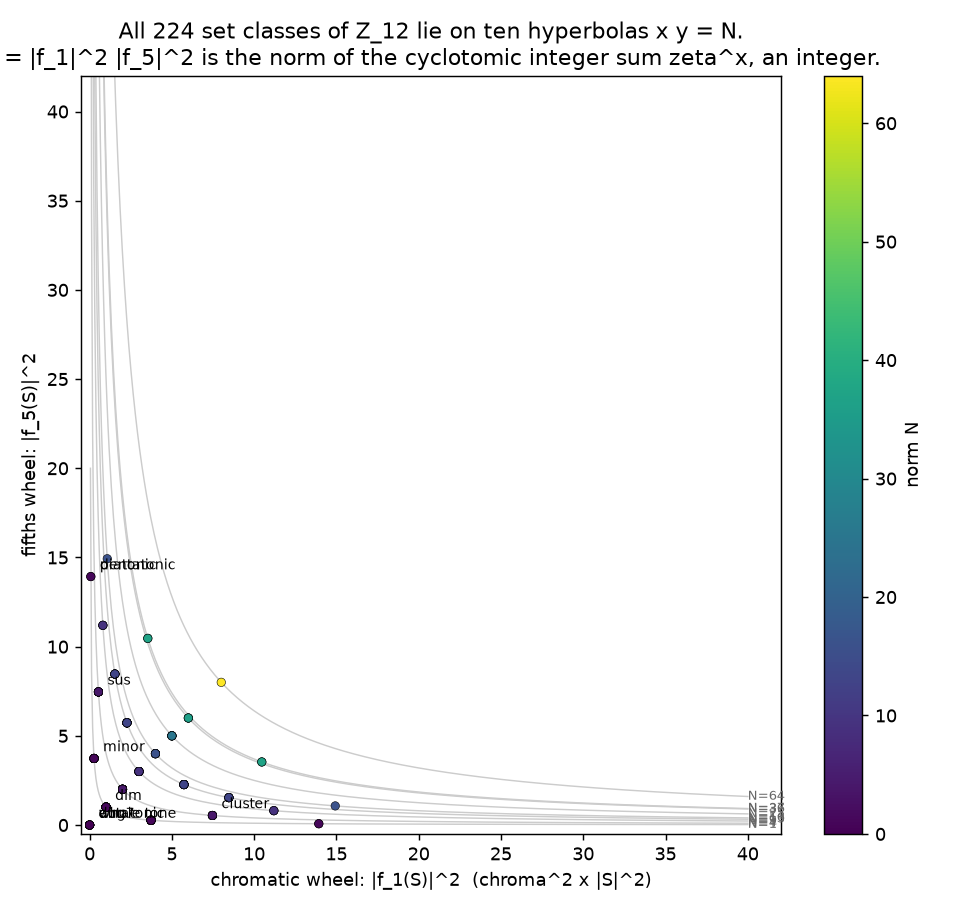
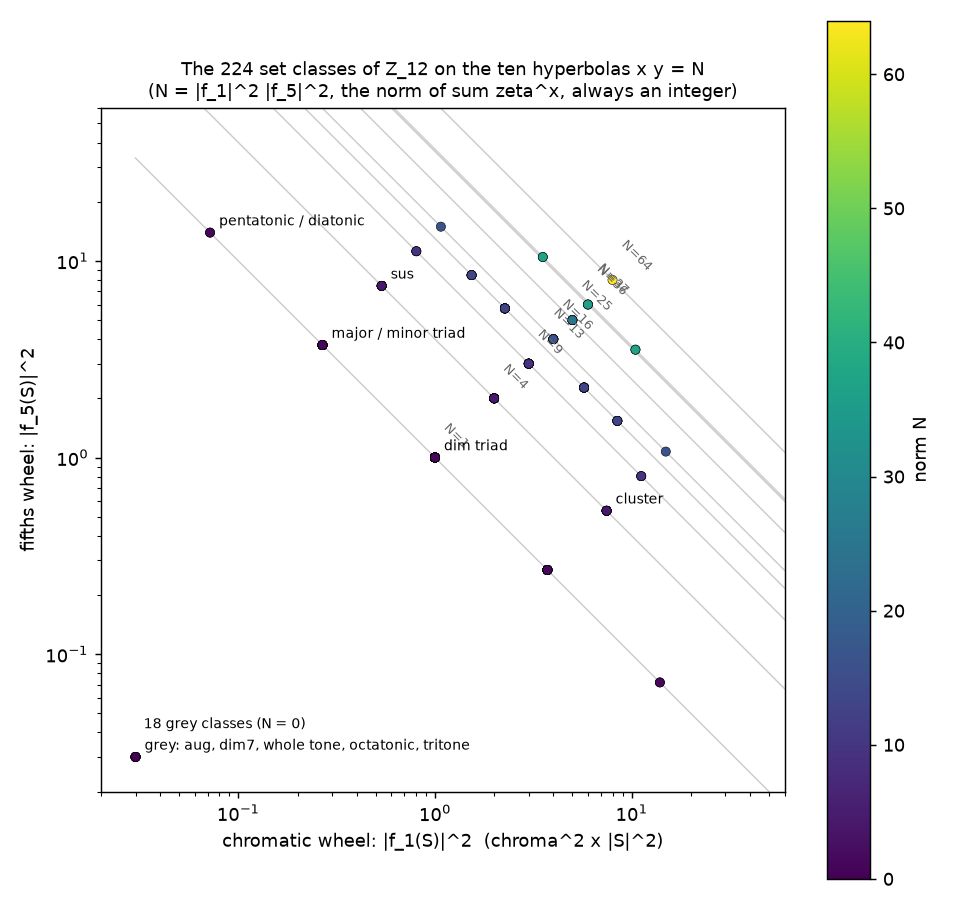
Hunt #75: norm figure on log axes, all 224 classes

diff --git a/hunts/chroma_hue/make_figure_norm.py b/hunts/chroma_hue/make_figure_norm.py
@@ -24,9 +24,9 @@ import pc  # noqa: E402
 
 FIG = HERE.parents[1] / "figures"
 N = 12
-NAMED = {(0, 4, 7): "major", (0, 3, 7): "minor", (0, 4, 8): "aug", (0, 3, 6): "dim", (0, 2, 7): "sus",
-         (0, 1, 3, 5, 6, 8, 10): "diatonic", (0, 2, 4, 7, 9): "pentatonic", (0, 1, 2): "cluster",
-         (0, 2, 4, 6, 8, 10): "whole tone", (0, 3, 6, 9): "dim7", (0, 1, 3, 4, 6, 7, 9, 10): "octatonic"}
+NAMED = {(0, 3, 7): "major / minor triad", (0, 3, 6): "dim triad", (0, 2, 7): "sus",
+         (0, 2, 4, 7, 9): "pentatonic / diatonic", (0, 1, 2): "cluster",
+         (0, 4, 8): "grey: aug, dim7, whole tone, octatonic, tritone"}
 
 
 def prime_form(S):
@@ -40,7 +40,7 @@ def prime_form(S):
 
 def main():
     pts = {}
-    for d in range(1, N):
+    for d in range(0, N + 1):
         for S in itertools.combinations(range(N), d):
             pf = prime_form(S)
             if pf in pts:
@@ -51,21 +51,27 @@ def main():
     ys = np.array([v[1] for v in pts.values()])
     norms = np.round(xs * ys).astype(int)
     fig, ax = plt.subplots(figsize=(7.5, 7))
-    grid = np.linspace(0.05, 40, 600)
+    grid = np.geomspace(0.03, 60, 400)
     for n in sorted(set(norms) - {0}):
         ax.plot(grid, n / grid, color="0.8", lw=0.8, zorder=0)
-        ax.text(40, n / 40, f"N={n}", fontsize=7, color="0.4", va="center")
-    sc = ax.scatter(xs, ys, c=norms, cmap="viridis", s=22, zorder=2, edgecolor="k", linewidth=0.3)
+        ax.text(np.sqrt(n) * 1.08, np.sqrt(n) * 1.08, f"N={n}", fontsize=7, color="0.4", ha="left", va="bottom", rotation=-45)
+    grey = norms == 0
+    floor = 0.03
+    sc = ax.scatter(np.where(xs > 0, xs, floor), np.where(ys > 0, ys, floor), c=norms, cmap="viridis",
+                    s=26, zorder=2, edgecolor="k", linewidth=0.3)
+    ax.text(floor * 1.1, floor * 1.4, f"{int(grey.sum())} grey classes (N = 0)", fontsize=8)
     for pf, name in NAMED.items():
         if pf in pts:
             x, y = pts[pf]
-            ax.annotate(name, (x, y), textcoords="offset points", xytext=(5, 4), fontsize=8)
-    ax.set_xlim(-0.5, 42)
-    ax.set_ylim(-0.5, 42)
+            ax.annotate(name, (max(x, floor), max(y, floor)), textcoords="offset points", xytext=(5, 4), fontsize=8)
+    ax.set_xscale("log")
+    ax.set_yscale("log")
+    ax.set_xlim(0.02, 60)
+    ax.set_ylim(0.02, 60)
+    ax.set_aspect("equal")
     ax.set_xlabel("chromatic wheel: |f_1(S)|^2  (chroma^2 x |S|^2)")
     ax.set_ylabel("fifths wheel: |f_5(S)|^2")
-    ax.set_title("All 224 set classes of Z_12 lie on ten hyperbolas x y = N.\n"
-                 "N = |f_1|^2 |f_5|^2 is the norm of the cyclotomic integer sum zeta^x, an integer.")
+    ax.set_title("The 224 set classes of Z_12 on the ten hyperbolas x y = N\n(N = |f_1|^2 |f_5|^2, the norm of sum zeta^x, always an integer)", fontsize=10)
     plt.colorbar(sc, ax=ax, label="norm N")
     fig.tight_layout()
     fig.savefig(FIG / "chroma_hue_norm.png", dpi=130)
